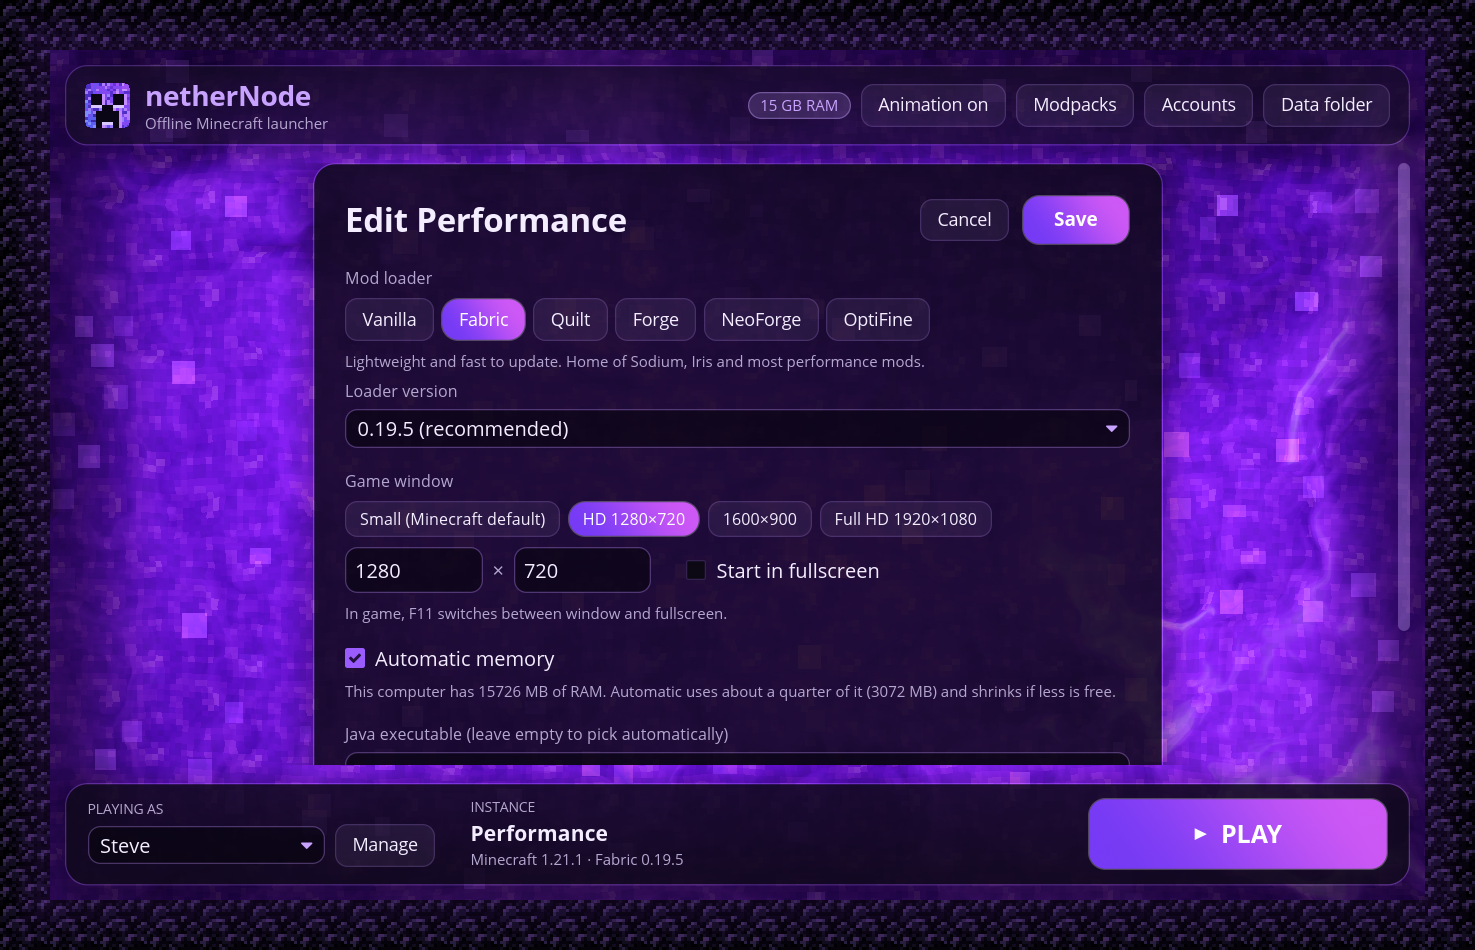
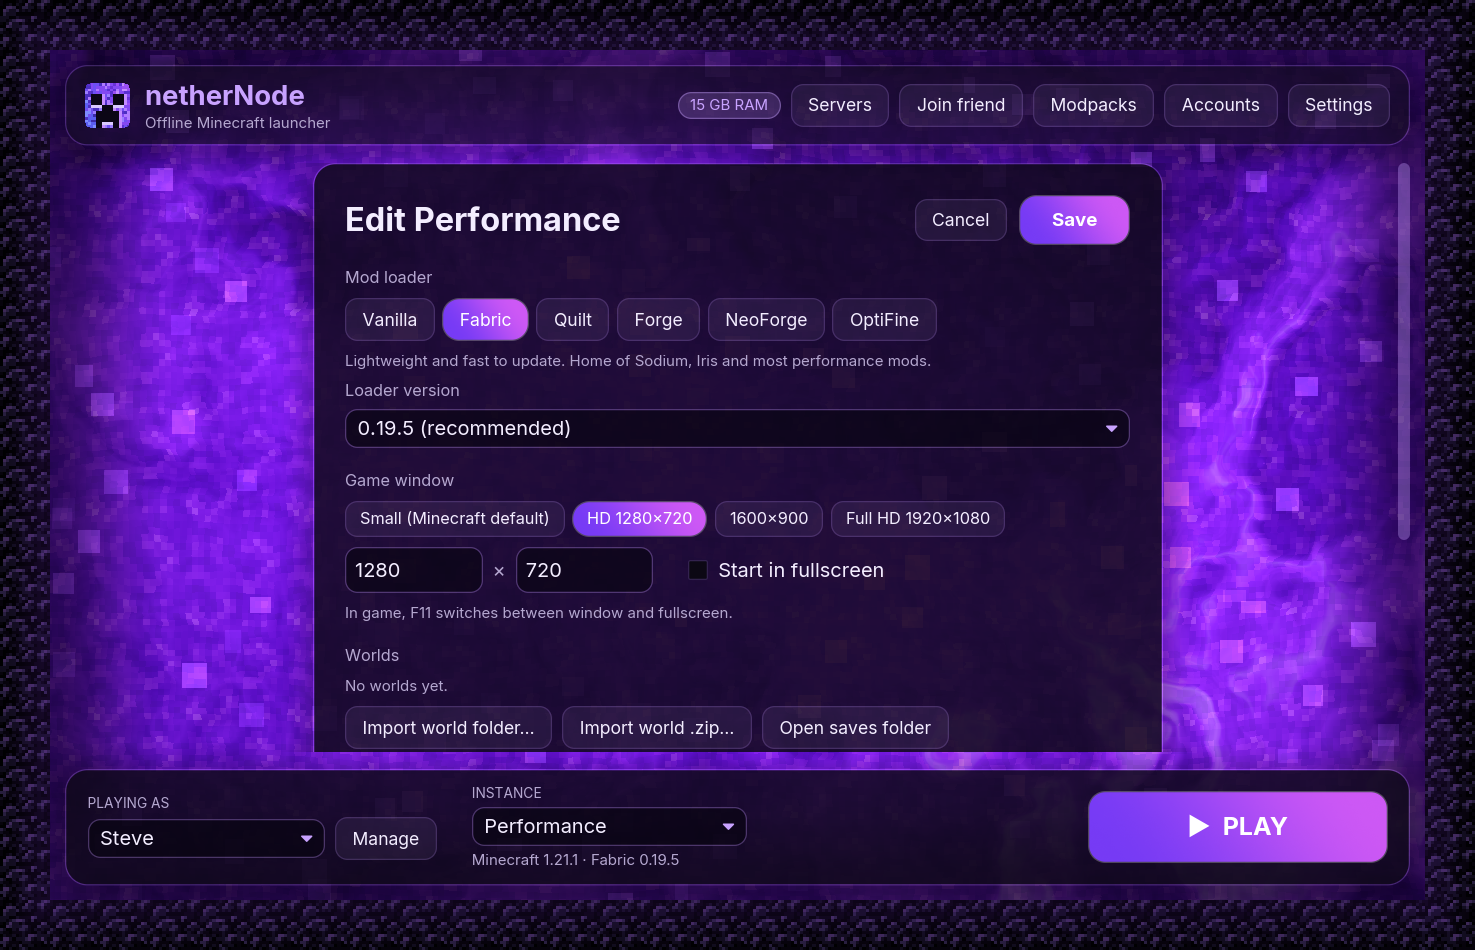
netherNode 1.0.0
Version 1.0.0 across all crates. Releases from v1.0 on are full
releases (0.x tags stay pre-releases). README rewritten for 1.0 with
sections on playing with friends and hosting servers, updated CLI
examples, and fresh screenshots including the Servers screen.

diff --git a/crates/gui/src/snapshot.rs b/crates/gui/src/snapshot.rs
@@ -128,7 +128,7 @@ pub fn update(app: &mut App, step: Step) -> Task<Message> {
                     if let Ok(server) = std::env::var("NETHERNODE_SNAPSHOT_SERVER") {
                         send(app, Message::StartServer(server));
                     }
-                    45_000
+                    90_000
                 }
                 "server-invite" => {
                     if let Ok(server) = std::env::var("NETHERNODE_SNAPSHOT_SERVER") {

diff --git a/README.md b/README.md
@@ -5,7 +5,7 @@
 <h1 align="center">netherNode</h1>
 
 <p align="center">
-  An offline Minecraft launcher for Windows, macOS and Linux, with Fabric, Forge, NeoForge, Quilt, OptiFine, and Modrinth mods and modpacks.
+  An offline Minecraft launcher for Windows, macOS and Linux: every version, every major mod loader, Modrinth mods and modpacks, your own servers, and playing with friends over the internet without port forwarding.
 </p>
 
 <p align="center">
@@ -14,35 +14,44 @@
 
 ## Features
 
-- **Offline accounts.** Play with any username. No Microsoft or Mojang login, now or later.
-- **Every Minecraft version.** From old alphas to the newest snapshot, straight from Mojang's version list. The right Java is downloaded automatically.
-- **Mod loaders in one click.** Fabric, Quilt, Forge (including pre-1.13) and NeoForge. Loaders that haven't released for a Minecraft version yet are greyed out.
-- **OptiFine, solved.** A one-click open-source alternative (Sodium, Iris shaders, connected textures, dynamic lights, zoom and more). A real OptiFine jar works too.
-- **Mods from Modrinth.** Search only shows mods compatible with the instance. Dependencies install automatically, and mods can be turned on and off or added by drag & drop.
-- **Modpacks.** Install from Modrinth or import `.mrpack` files. Each pack becomes its own instance.
-- **Play with friends over the internet.** Open your world to LAN, click *Invite friends*, and send the code. Friends click *Join friend* and see your world in Minecraft's LAN list. No port forwarding, works behind CGNAT, end-to-end encrypted.
-- **Host a server on your PC.** Vanilla, Fabric (mods) or Paper (plugins), with a live console, settings and whitelist. Friends join any time it's on, through *Invite friends*, even when you're not playing.
+**Play**
+- **Offline accounts.** Play with any username. No Microsoft or Mojang login.
+- **Every Minecraft version**, from old alphas to today's snapshot, straight from Mojang's list. The right Java is downloaded for you.
+- **Fits your PC.** Game memory is sized to your RAM and to what's free right now. The game opens at 1280×720 or any size you choose, and low-RAM machines get lighter settings.
+- **Helpful crash messages.** netherNode reads crash reports and Java errors and tells you the likely fix.
+
+**Mod**
+- **Mod loaders in one click:** Fabric, Quilt, Forge (including pre-1.13) and NeoForge. Loaders that haven't released for a version yet are greyed out.
+- **OptiFine, solved.** A one-click open-source alternative (Sodium, Iris shaders, connected textures, dynamic lights, zoom and more), or a real OptiFine jar.
+- **Mods from Modrinth**, filtered to what works with the instance, with dependencies installed automatically. Turn mods on and off, or drop `.jar` files onto the window.
+- **Modpacks** from Modrinth in one click, or import `.mrpack` files.
+
+**Together**
+- **Play with friends over the internet.** Open your world to LAN, click *Invite friends*, and send the code. Your friend clicks *Join friend* and finds your world in Minecraft's LAN list. No port forwarding, works behind CGNAT, end-to-end encrypted, and you approve every friend.
+- **Host a server on your PC:** Vanilla, Fabric (mods) or Paper (plugins), with a live console, settings and a whitelist. Friends can join any time it's running, even when you're not playing.
 - **Desktop notifications** when a friend wants in or your server is ready, so you notice even in fullscreen.
-- **Bring your worlds.** Import world folders or `.zip` backups when creating or editing an instance.
-- **Your folders.** Move the game files and the instances & worlds to any drive from Settings.
-- **Light on low-end PCs.** Game memory is sized to your RAM and to what's free right now. Low-RAM machines get lighter settings and a lighter launcher.
-- **Helpful crash messages.** netherNode reads crash reports and Java errors, and tells you the likely fix.
-- **A launcher that looks the part.** Obsidian and violet glass over a live nether portal that pauses while you play. It uses your own game files for textures and never ships Mojang's.
+
+**Your stuff**
+- **Bring your worlds:** import world folders or `.zip` backups into instances and servers.
+- **Your folders:** keep game files, instances and servers on any drive (Settings).
+- **A launcher that looks the part:** obsidian and violet glass over a live nether portal that pauses while you play. Textures come from your own game files; netherNode never ships Mojang's.
 
 ## Screenshots
 
 | | |
 |---|---|
 | ![New instance with loader picker](docs/screenshots/new.png) | ![Browse Modrinth mods](docs/screenshots/browse.png) |
-| **New instance:** any version, any loader | **Mods:** search and install from Modrinth |
-| ![Installed mods](docs/screenshots/mods.png) | ![Modpacks](docs/screenshots/modpacks.png) |
-| **Installed mods:** turn on/off, remove, drop jars in | **Modpacks:** one click, or import `.mrpack` |
-| ![Instance settings](docs/screenshots/edit.png) | ![Game running](docs/screenshots/playing.png) |
-| **Settings:** loader, window size, memory, Java | **Playing:** live game log, one-click stop |
+| **New instance:** any version, any loader, OptiFine alternative | **Mods:** search and install from Modrinth |
+| ![Hosting a server](docs/screenshots/servers.png) | ![Modpacks](docs/screenshots/modpacks.png) |
+| **Servers:** host on your PC and share with friends | **Modpacks:** one click, or import `.mrpack` |
+| ![Instance settings](docs/screenshots/edit.png) | ![Settings](docs/screenshots/settings.png) |
+| **Instance settings:** loader, window size, worlds, memory | **Settings:** folders, graphics |
+| ![Game running](docs/screenshots/playing.png) | ![Installed mods](docs/screenshots/mods.png) |
+| **Playing:** live game log, one-click stop | **Installed mods:** on/off, remove, drop jars in |
 
 ## Download
 
-Get the latest build from [**Releases**](../../releases).
+Get the latest version from [**Releases**](../../releases).
 
 | Platform | File |
 |---|---|
@@ -63,6 +72,22 @@ The builds aren't code-signed yet:
 3. Double-click the instance (or press **PLAY**). The first launch downloads the game and Java, which takes a few minutes.
 4. For mods, open the instance's **Mods** screen. For ready-made packs, use **Modpacks** in the top bar.
 
+## Playing with friends
+
+**Your world, while you play**
+1. Start your game and load a world. Press **Esc → Open to LAN → Start LAN World**.
+2. In netherNode, click **Invite friends** and send the code it shows (**Copy code**).
+3. Your friend clicks **Join friend**, pastes the code, and you click **Allow** when asked. You also get a desktop notification.
+4. Your friend opens **Multiplayer**; your world is in the LAN list. They can also Direct Connect to the `localhost` address netherNode shows them.
+
+**A server, even when you're not playing**
+1. **Servers → + New server**: name, Minecraft version, Vanilla / Fabric / Paper. Accept the Minecraft EULA.
+2. **Start** it. When it's ready, **Invite friends** works just like above, and **Play on it** puts you in too.
+
+Both use the same Minecraft version on both sides; with mods, friends need the same mods.
+
+**How it works:** netherNode uses [iroh](https://iroh.computer). Both computers connect outwards and punch a direct path through NAT when they can; otherwise traffic goes through a relay over HTTPS that only sees encrypted data. The code contains a random secret, you approve each friend, and only the Minecraft port is reachable.
+
 ## Command line
 
 The `nethernode` binary does everything the app does:
@@ -71,22 +96,27 @@ The `nethernode` binary does everything the app does:
 nethernode account add Steve
 nethernode instance create survival 1.21.1
 nethernode instance create modded 1.21.1 --loader fabric --resolution 1920x1080
-nethernode mods add modded sodium          # plus required dependencies
+nethernode mods add modded sodium                 # plus required dependencies
+nethernode mods optifine-alternative modded
 nethernode modpack install fabulously-optimized
 nethernode launch survival
+
+nethernode server create smp 1.21.1 --kind paper --accept-eula
+nethernode server start smp --share               # prints a join code for friends
+nethernode share join <code>                       # join a friend's world or server
 ```
 
 Run `nethernode --help` for all commands.
 
 ## Where things are stored
 
-| OS | Folder |
+| OS | Default folder |
 |---|---|
 | Windows | `%APPDATA%\nethernode\data` |
 | macOS | `~/Library/Application Support/nethernode` |
 | Linux | `~/.local/share/nethernode` |
 
-Set `NETHERNODE_HOME` to use another folder. Game files, libraries and Java runtimes are shared between instances. Each instance has its own `.minecraft` folder for worlds, mods and settings.
+Game files, instances and servers can each be moved in **Settings**. Game files, libraries and Java are shared between instances, and each instance has its own `.minecraft` folder for worlds, mods and settings. Set `NETHERNODE_HOME` to use a completely separate folder (a portable install).
 
 ## Building from source
 
@@ -100,7 +130,7 @@ target/release/nethernode         # the CLI
 
 The workspace has three crates:
 
-- `crates/core`: the launcher library (versions, downloads, Java, loaders, mods, modpacks, crash analysis)
+- `crates/core`: the launcher library (versions, downloads, Java, loaders, mods, modpacks, servers, sharing, crash analysis)
 - `crates/cli`: the `nethernode` command
 - `crates/gui`: the `nethernode-gui` app, built with [iced](https://iced.rs)
 
@@ -108,17 +138,17 @@ Pushing a `v*` tag builds Windows, macOS and Linux releases through GitHub Actio
 
 ## FAQ
 
-**Can I join online-mode servers?** No. Offline accounts work in singleplayer, LAN, and servers running in offline mode.
+**Can I join online-mode servers?** No. Offline accounts work in singleplayer, LAN, servers in offline mode (like the ones netherNode hosts), and friends' worlds through *Join friend*.
+
+**Is a server in offline mode safe?** It can't check names, so anyone who gets in could use any name. netherNode only lets in friends you approve, and you can turn on a whitelist in the server's settings.
 
 **What about OptiFine?** Pick *OptiFine* when creating an instance. The default, *One-click alternative*, installs open-source mods that do what OptiFine does: Sodium, Iris (OptiFine shader packs work), Continuity, Entity Texture/Model Features, dynamic lights, zoom and more. OptiFine itself can't be downloaded by other apps (its author doesn't allow it), so the real thing needs a jar from optifine.net, which netherNode then installs for you.
-
-**How does "Invite friends" work without port forwarding?** netherNode uses [iroh](https://iroh.computer): both computers connect outwards, punch a direct path through NAT when possible, and otherwise use a relay over HTTPS that only sees encrypted traffic. The code contains a random secret, you approve each friend, and only the Minecraft LAN port is reachable.
 
 **Does it include Minecraft's textures?** No. The launcher reads textures from the game files it downloads from Mojang for you, and uses its own artwork until then.
 
 ## Credits
 
-The interface uses the [Inter](https://rsms.me/inter/) and [JetBrains Mono](https://www.jetbrains.com/lp/mono/) fonts, both under the SIL Open Font License (see `assets/fonts/`).
+The interface uses the [Inter](https://rsms.me/inter/) and [JetBrains Mono](https://www.jetbrains.com/lp/mono/) fonts, both under the SIL Open Font License (see `assets/fonts/`). Networking for *Invite friends* is built on [iroh](https://iroh.computer).
 
 ## Roadmap
 

diff --git a/packaging/release-notes.md b/packaging/release-notes.md
@@ -1,4 +1,4 @@
-**Test build. Not code-signed yet**: see "Installing" below.
+**netherNode 1.0**: offline Minecraft launcher for Windows, macOS and Linux. Builds aren't code-signed yet; see "Installing" below.
 
 ## Downloads
 
